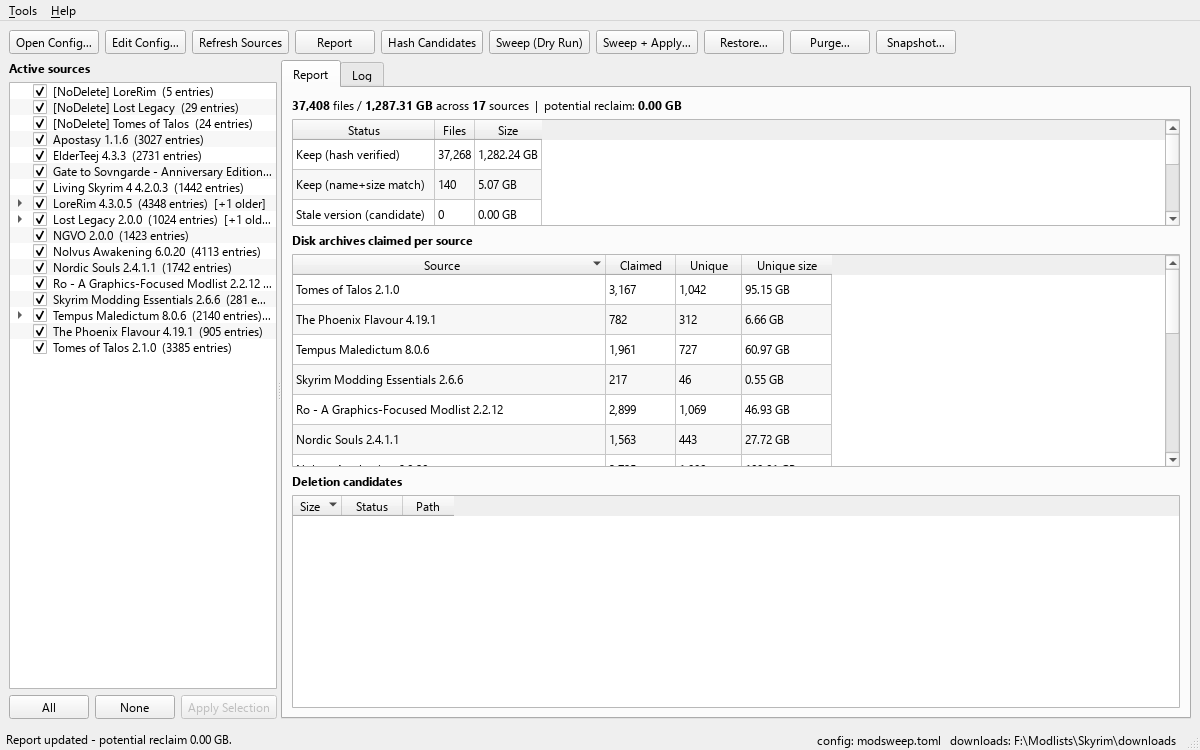
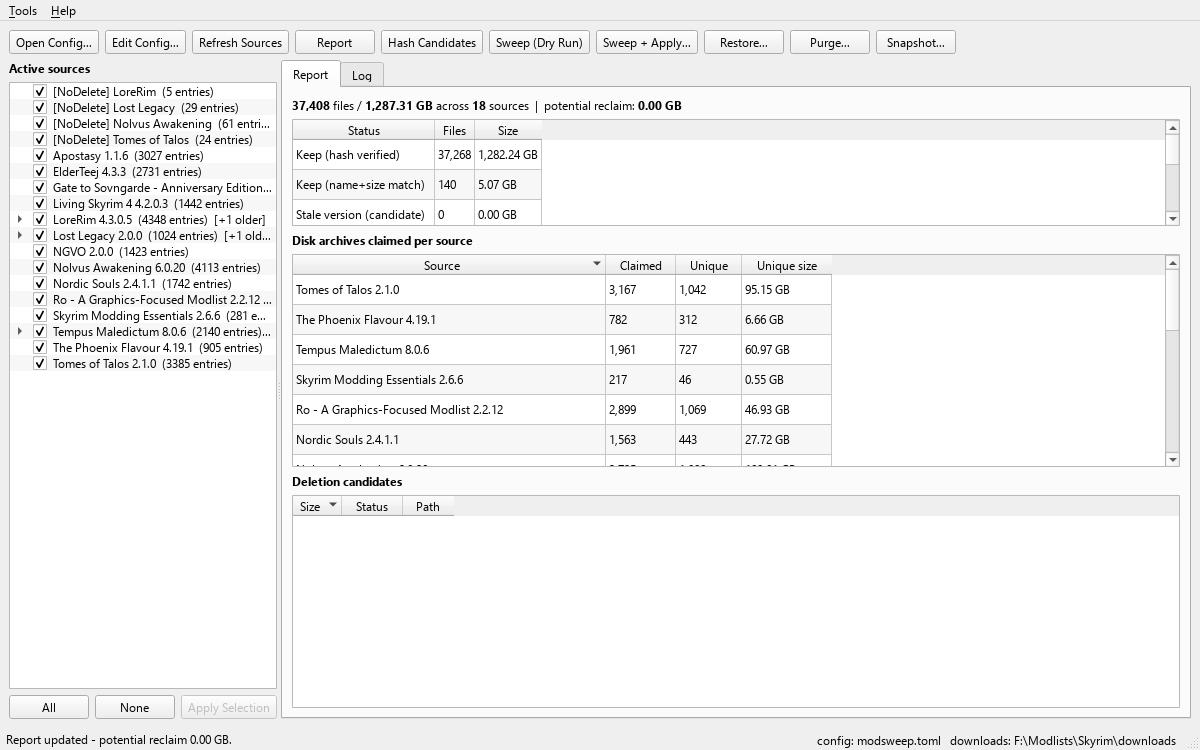
Find Nolvus nested instances and their wrapped mods dir
Nolvus keeps instances at <install>\Instances\<name>\MODS, and MODS is
itself a whole portable MO2 layout (mods/profiles/overwrite/downloads)
rather than the mods dir - so its [NoDelete] customizations were
invisible twice over. installs expansion now searches entries a few
levels deep (bounded; instances are never descended into, so modlist
trees are not walked), and the loader detects the wrapped-container
case via instance markers and descends to the real mods dir, naming
the instance after the wrapper parent. On the reference setup this
surfaces [NoDelete] Nolvus Awakening with 61 protected archives that
were previously unclaimed.

Changed region(s): [[0.0308, 0.1533, 0.2158, 0.4907]]

diff --git a/tests/test_mo2.py b/tests/test_mo2.py
@@ -52,3 +52,32 @@ def test_mods_dir_passed_directly(instance):
 def test_no_mods_dir_raises(tmp_path):
     with pytest.raises(ValueError):
         mo2.load(tmp_path)
+
+
+def test_nolvus_wrapped_instance_descends_to_real_mods_dir(tmp_path):
+    """Nolvus wraps a whole portable instance in a container named MODS:
+    Instances/<name>/MODS/{mods,profiles,overwrite,...}. The loader must
+    use MODS/mods and name the instance after <name>, not "MODS"."""
+    instance = tmp_path / "Nolvus Awakening"
+    container = instance / "MODS"
+    (container / "profiles").mkdir(parents=True)
+    (container / "overwrite").mkdir()
+    make_mod(container / "mods", "[NoDelete] 00.001 A",
+             ["[General]", "installationFile=A-1.zip"])
+
+    m = mo2.load(instance)
+    assert m.label == "[NoDelete] Nolvus Awakening"
+    assert [e.file_name for e in m.entries] == ["A-1.zip"]
+
+
+def test_plain_mods_dir_with_mod_named_mods_is_not_descended(tmp_path):
+    """A regular install whose mods dir happens to contain a mod folder
+    called 'mods' must not be mistaken for a wrapped instance - the
+    instance markers (profiles/overwrite/downloads) are required."""
+    inst = tmp_path / "SomeList"
+    make_mod(inst / "mods", "mods", ["[General]", "installationFile=weird.zip"])
+    make_mod(inst / "mods", "[NoDelete] 00.001 A",
+             ["[General]", "installationFile=A-1.zip"])
+    m = mo2.load(inst)
+    assert m.label == "[NoDelete] SomeList"
+    assert [e.file_name for e in m.entries] == ["A-1.zip"]

diff --git a/src/modsweep/cli.py b/src/modsweep/cli.py
@@ -450,21 +450,35 @@ def _expand_wabbajack(paths: list[Path]) -> list[tuple[str, Path, bool]]:
 
 
 def _expand_installs(paths: list[Path], kind: str) -> list[tuple[str, Path, bool]]:
-    """An entry is either an MO2 install itself, or a folder whose direct
-    children are installs. Anything else is warned about, never guessed at."""
+    """An entry is either an MO2 install itself, or a folder searched a few
+    levels deep for installs (Nolvus nests its instances under
+    Instances/<name>/MODS). Anything else is warned about, never guessed at."""
     out: list[tuple[str, Path, bool]] = []
     for path in paths:
         if _is_mo2_instance(path):
             out.append((kind, path, True))
             continue
-        instances = [
-            c for c in sorted(path.iterdir()) if c.is_dir() and _is_mo2_instance(c)
-        ] if path.is_dir() else []
+        instances = _find_instances(path, depth=3)
         if instances:
             out.extend((kind, c, False) for c in instances)
         else:
             print(f"warning: {path}: no MO2 install (mods/) found", file=sys.stderr)
     return out
+
+
+def _find_instances(path: Path, depth: int) -> list[Path]:
+    """Instances at or below `path`. A dir owning a mods/ child counts and
+    is never descended into (so modlist installs are not walked); anything
+    else is searched to the depth bound."""
+    if _is_mo2_instance(path):
+        return [path]
+    if depth == 0 or not path.is_dir():
+        return []
+    found: list[Path] = []
+    for child in sorted(path.iterdir()):
+        if child.is_dir():
+            found.extend(_find_instances(child, depth - 1))
+    return found
 
 
 def _expand_cli(paths: list[Path]) -> list[tuple[str, Path, bool]]:

diff --git a/src/modsweep/mo2.py b/src/modsweep/mo2.py
@@ -30,7 +30,17 @@ def load(path: Path, include_all: bool = False) -> Manifest:
     mods_dir = path if path.name.lower() == "mods" else _find_mods_dir(path)
     if mods_dir is None:
         raise ValueError(f"{path}: no MO2 mods directory found")
-    instance = mods_dir.parent.name or str(mods_dir.parent)
+    # Nolvus wraps a whole portable instance in a container named MODS
+    # (MODS/{mods,profiles,overwrite,downloads,...}): what we found may be
+    # that container rather than the real mods dir - descend when the
+    # instance markers say so.
+    inner = _find_mods_dir(mods_dir)
+    if inner is not None and _has_instance_markers(mods_dir):
+        mods_dir = inner
+    instance_dir = mods_dir.parent
+    if instance_dir.name.lower() == "mods":  # the container, not a name
+        instance_dir = instance_dir.parent
+    instance = instance_dir.name or str(instance_dir)
 
     entries, missing = _collect_entries(mods_dir, include_all)
     if missing:
@@ -92,6 +102,16 @@ def _find_mods_dir(instance: Path) -> Path | None:
         if candidate.is_dir() and candidate.name.lower() == "mods":
             return candidate
     return None
+
+
+def _has_instance_markers(directory: Path) -> bool:
+    """True when a directory looks like an MO2 instance root itself
+    (profiles/overwrite/downloads siblings next to its mods dir)."""
+    markers = {"profiles", "overwrite", "downloads"}
+    return any(
+        child.is_dir() and child.name.lower() in markers
+        for child in directory.iterdir()
+    )
 
 
 def _installation_file(meta_ini: Path) -> str | None:

diff --git a/tests/test_cli.py b/tests/test_cli.py
@@ -73,6 +73,23 @@ def test_infer_file_kind_handles_gz(tmp_path):
     assert _infer_file_kind(tmp_path / "x.xml.gz") == "nolvus"
 
 
+def test_expand_installs_finds_nested_nolvus_instances(tmp_path):
+    from modsweep.cli import _expand_installs
+
+    (tmp_path / "LoreRim" / "mods").mkdir(parents=True)  # flat child install
+    nested = tmp_path / "Nolvus" / "Instances" / "Nolvus Awakening"
+    (nested / "MODS" / "mods").mkdir(parents=True)  # detected via MODS child
+    too_deep = tmp_path / "a" / "b" / "c" / "d"
+    (too_deep / "mods").mkdir(parents=True)  # beyond the depth bound
+
+    sources = _expand_installs([tmp_path], "mo2")
+    paths = {p for _, p, _ in sources}
+    assert tmp_path / "LoreRim" in paths
+    assert nested in paths
+    assert too_deep not in paths  # bounded: not walked arbitrarily deep
+    assert all(not pinned for _, _, pinned in sources)  # dir walk = implicit
+
+
 # --- resolution plumbing ---------------------------------------------------
 
 

diff --git a/src/modsweep/gui.py b/src/modsweep/gui.py
@@ -414,8 +414,10 @@ class ConfigEditorDialog(QDialog):
          "MO2 installations checked for [NoDelete]-prefixed custom "
          "additions: each such mod's source archive is protected in the "
          "downloads folder. Add one install (the folder containing mods/) "
-         "or a parent folder whose direct children are installs. Installs "
-         "without [NoDelete] mods contribute nothing and are skipped."),
+         "or a parent folder - parents are searched a few levels deep, so "
+         "nested layouts like Nolvus (Instances\\&lt;name&gt;\\MODS) are "
+         "found. Installs without [NoDelete] mods contribute nothing and "
+         "are skipped."),
         ("recovery", "Recovery", None, True,
          "Fallback for lists whose .wabbajack manifest is gone: every "
          "archive the install's mods were made from is whitelisted by NAME "

diff --git a/README.md b/README.md
@@ -86,7 +86,9 @@ default** — and every decision is announced on stderr, never silent.
 1. **Discovery.** Config keys (or CLI `-m`) expand to concrete manifests.
    Directory entries are walked: a `wabbajack` dir is searched recursively
    for `.wabbajack`; an `installs` entry is either an MO2 install or a
-   folder whose direct children are installs. Provenance is recorded here —
+   folder searched a few levels deep for installs (Nolvus nests its
+   instances under `Instances\<name>\MODS`, and the whole wrapped
+   instance layout is handled). Provenance is recorded here —
    a file or install you named yourself is *explicit* (pinned); anything
    found by a directory walk is *implicit*. Nolvus manifests and snapshots
    are always named directly, so they are always pinned.